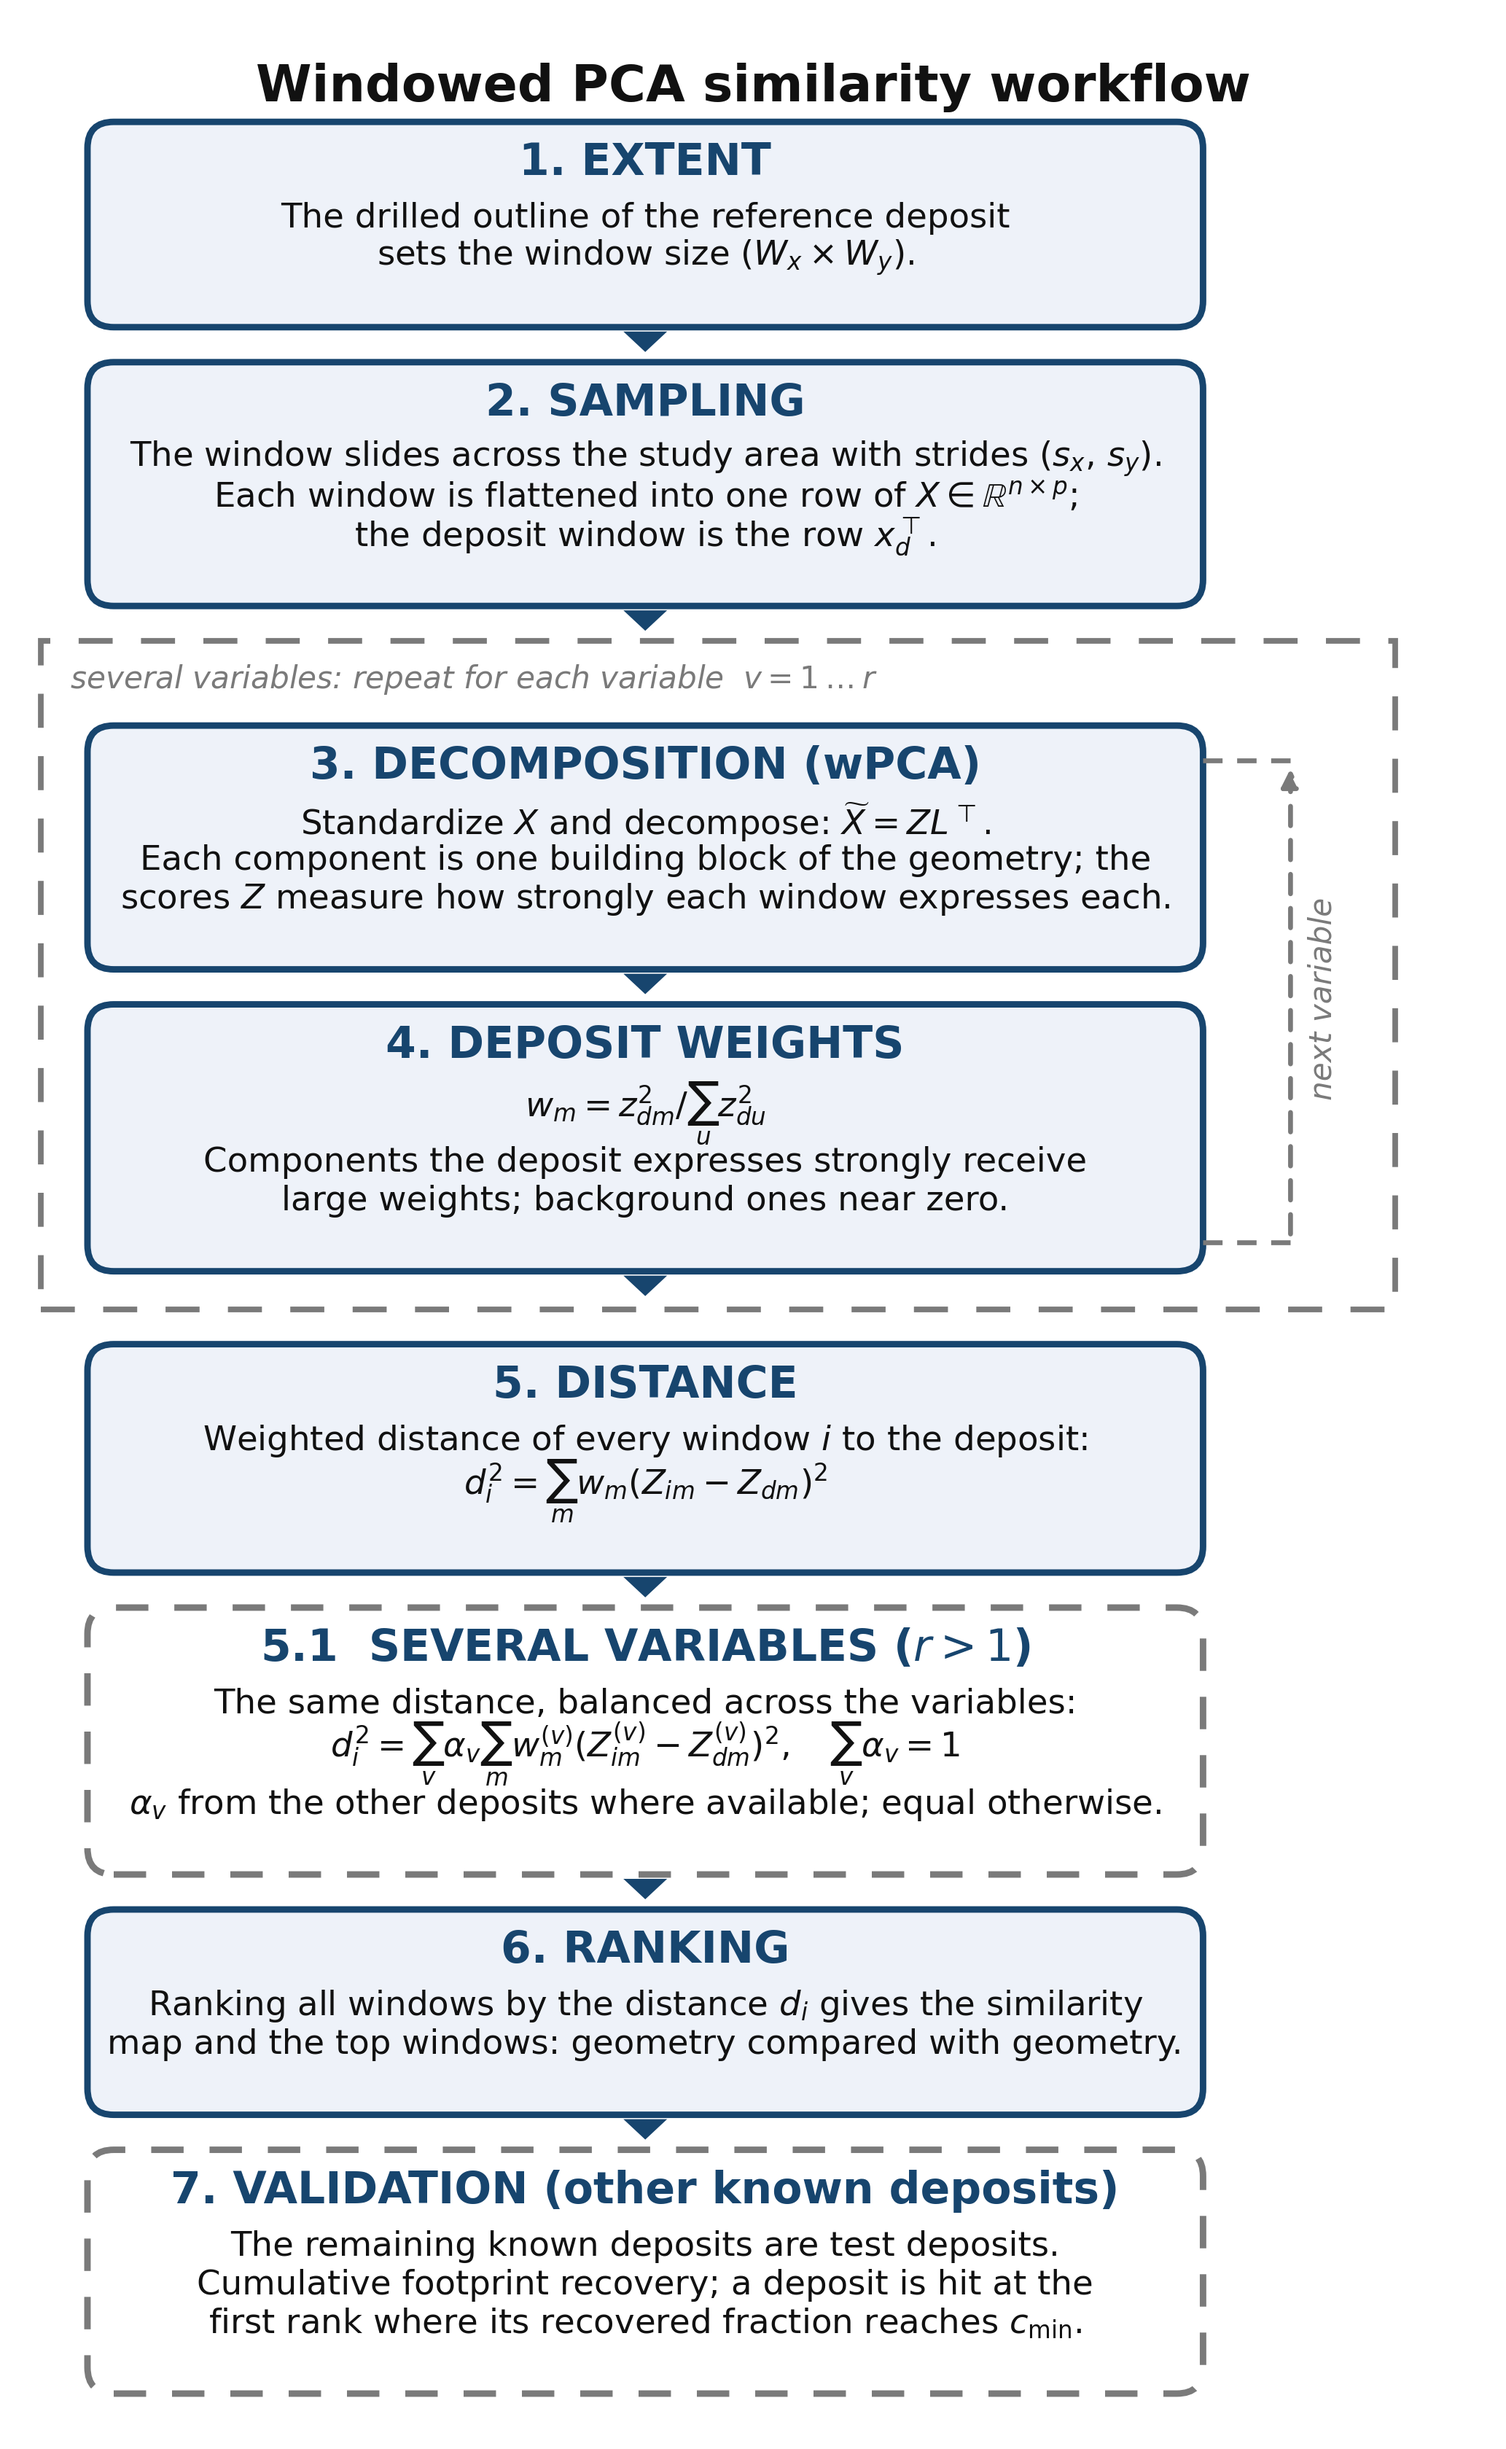
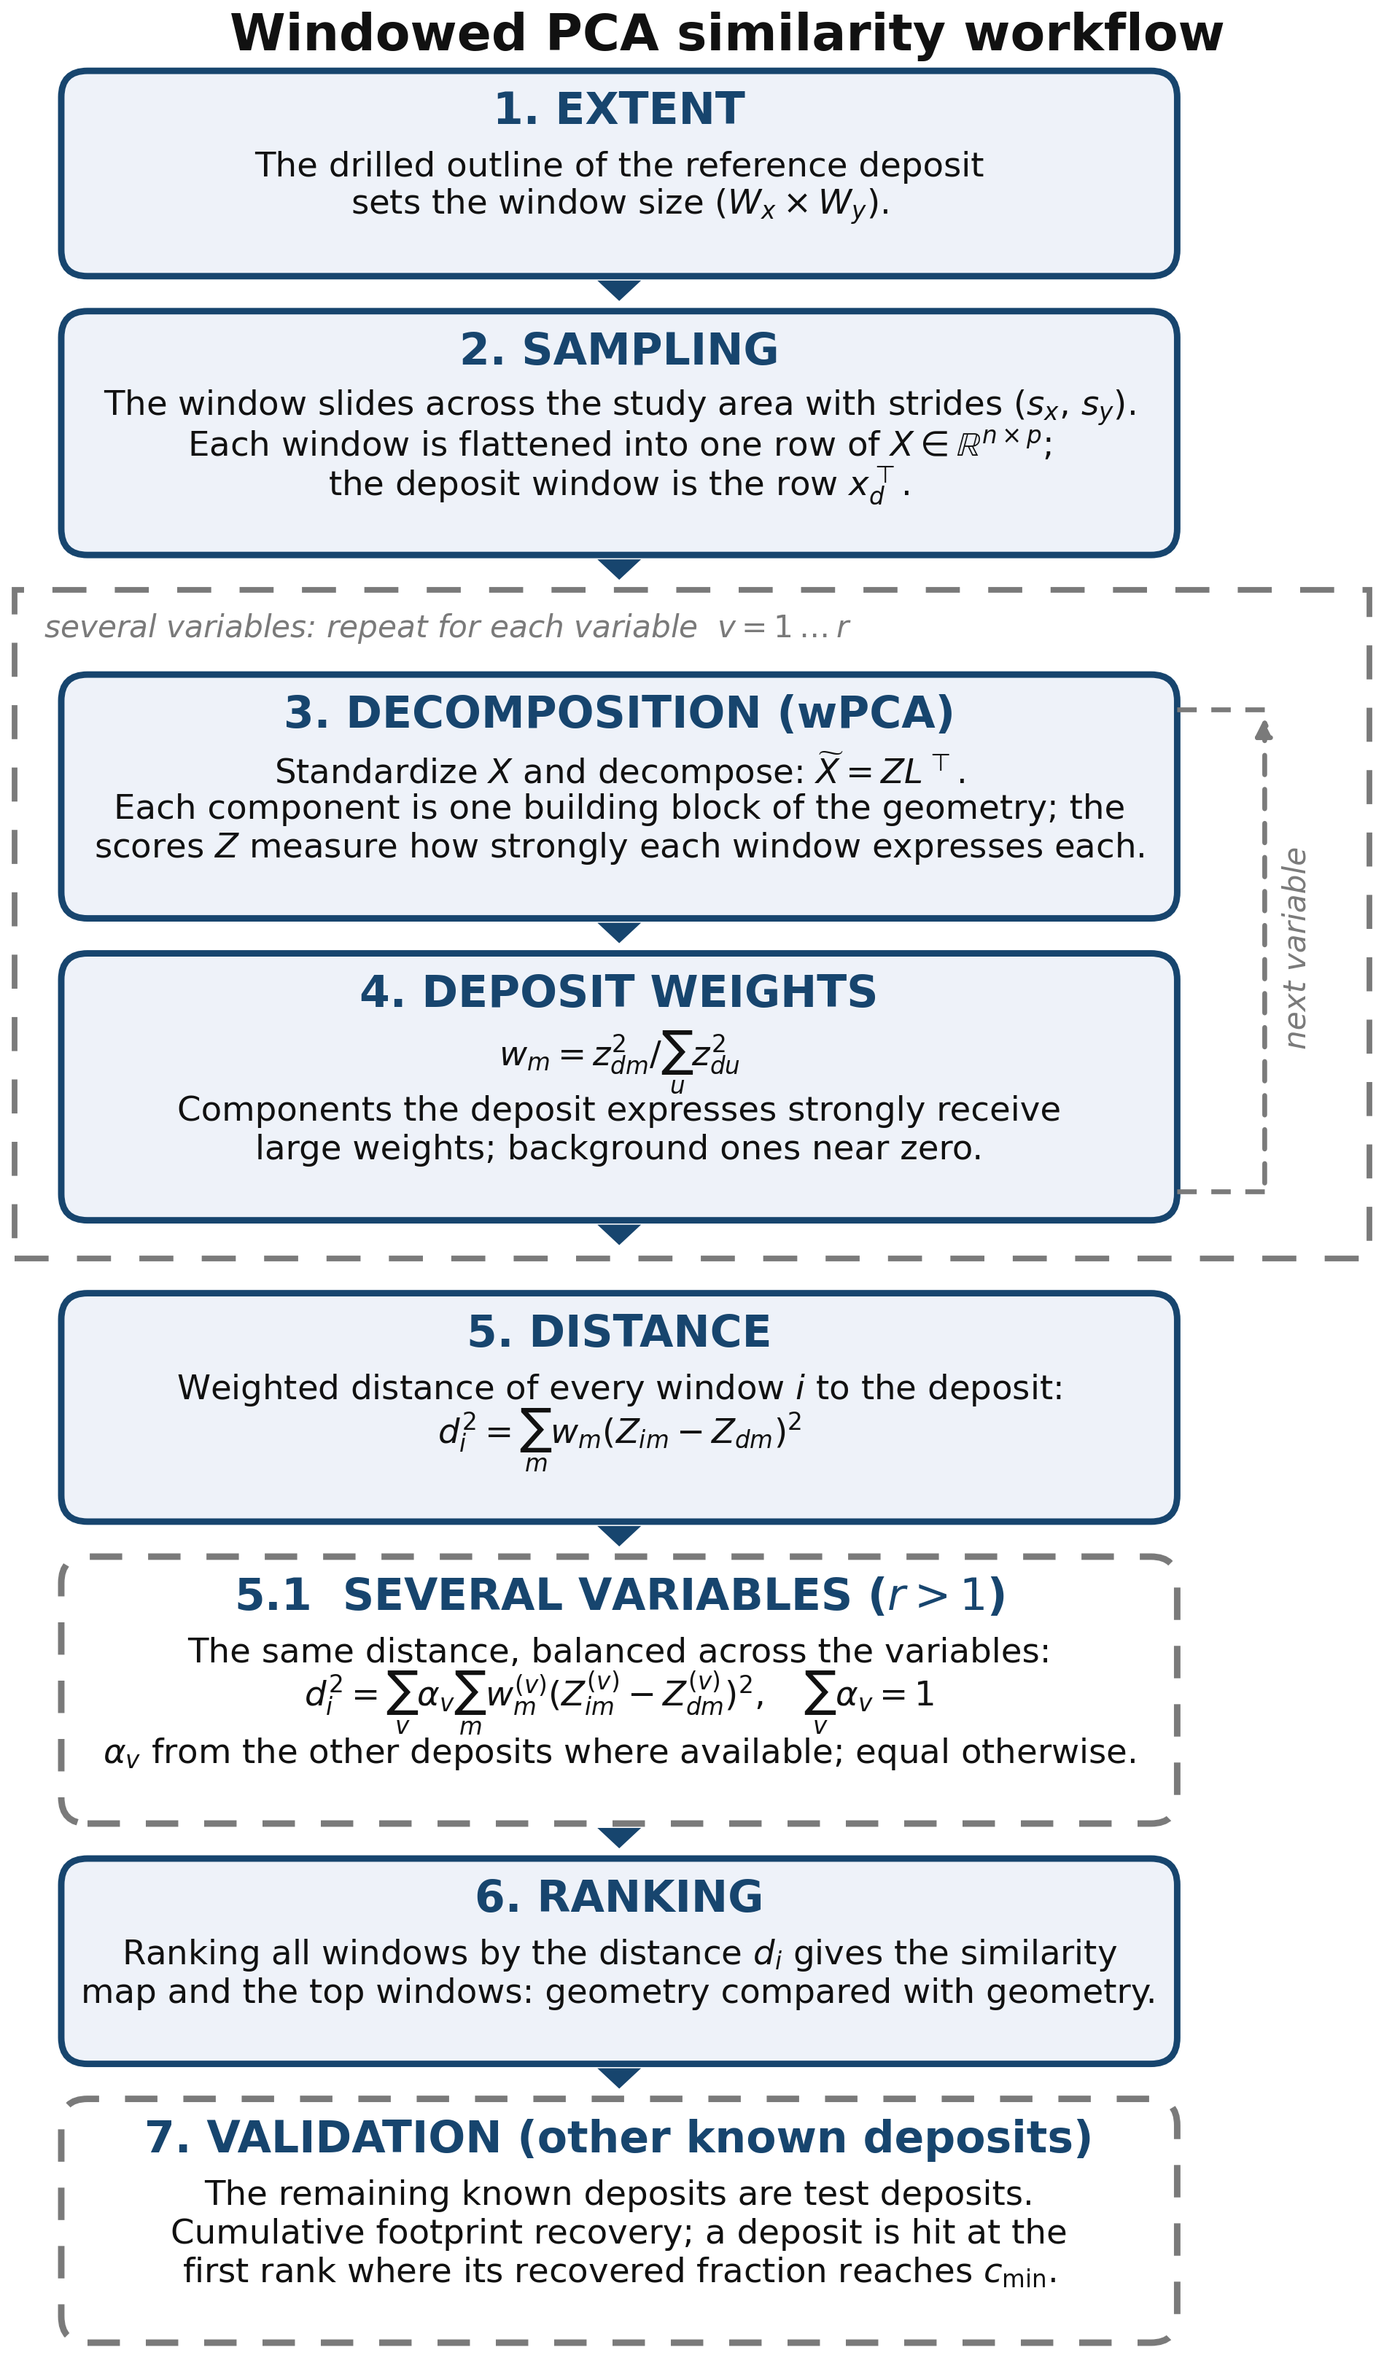
README: crop Case 1 figure whitespace, shrink workflow schematic

Changed region(s): [[0.0, 0.0, 0.9636, 0.9994], [0.8393, 0.7808, 0.8704, 0.8745], [0.7771, 0.9682, 0.8082, 0.9994]]

diff --git a/README.md b/README.md
@@ -75,7 +75,7 @@ scores, weights the components most characteristic of the reference deposit,
 and validates the top-ranked windows against independent deposit footprints.
 
 <p align="center">
-  <img src="docs/figures/workflow_steps_schematic.png" alt="wPCA workflow from input rasters and deposit polygons to ranked windows and validation" width="900">
+  <img src="docs/figures/workflow_steps_schematic.png" alt="wPCA workflow from input rasters and deposit polygons to ranked windows and validation" width="500">
 </p>
 
 **Module core functionality**
